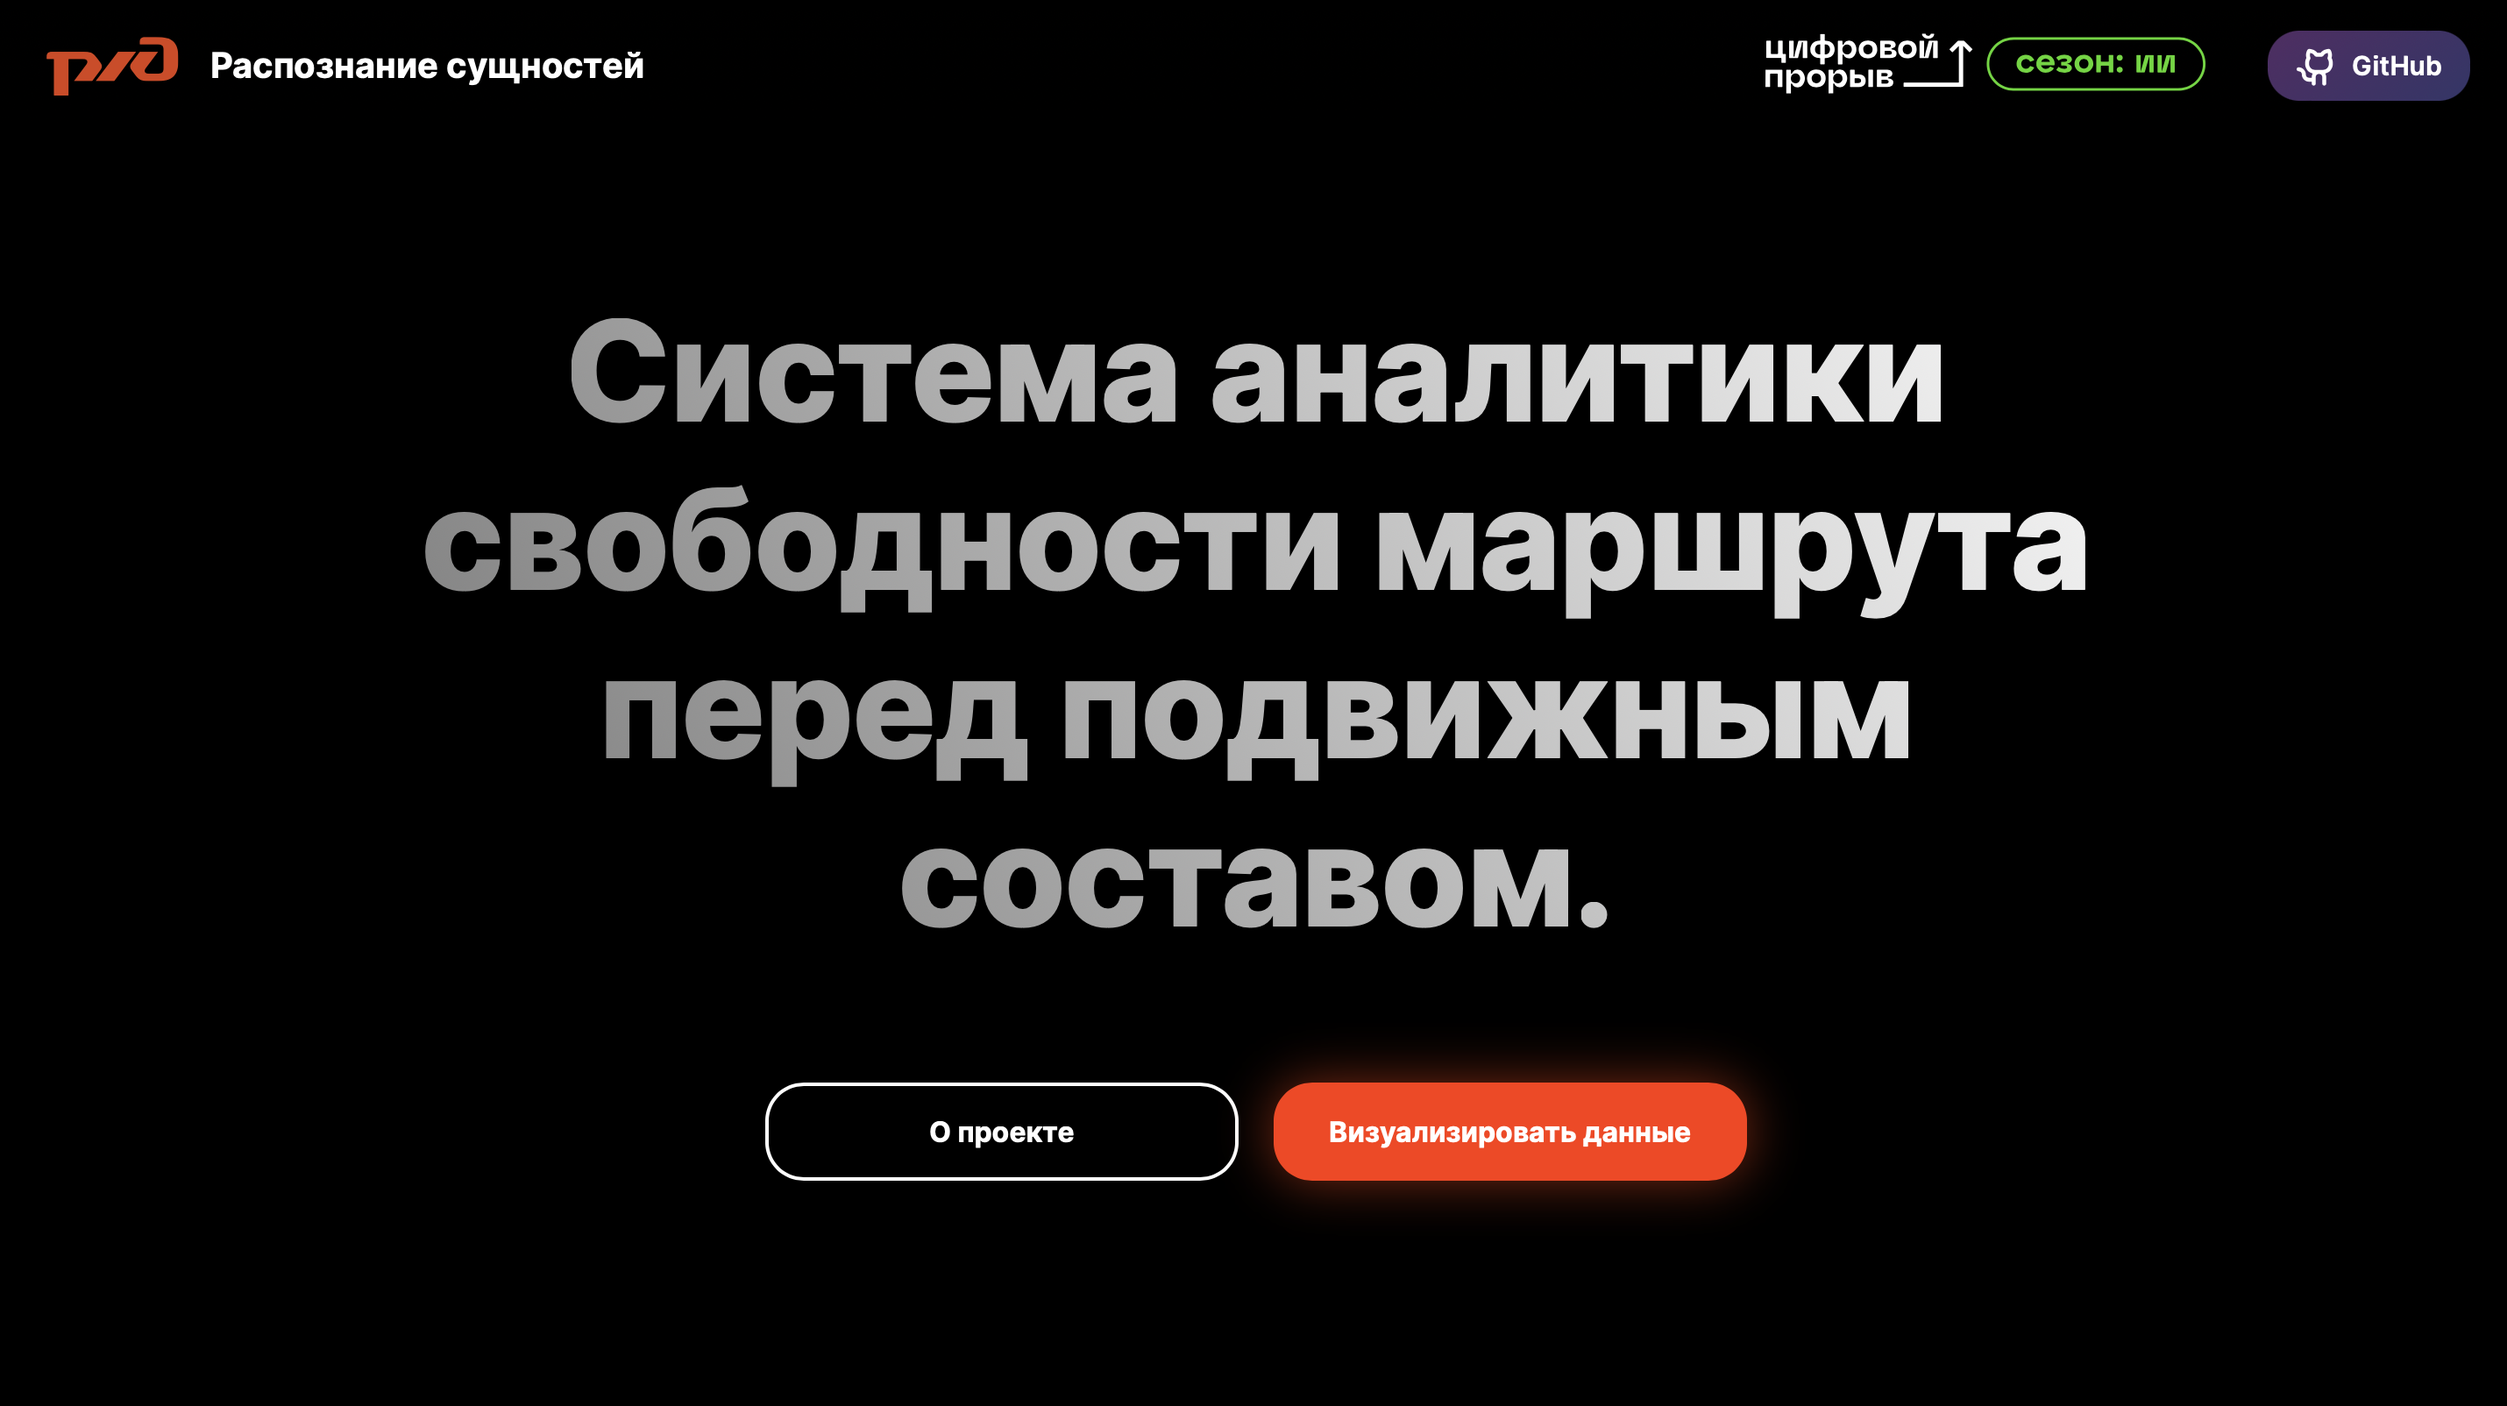
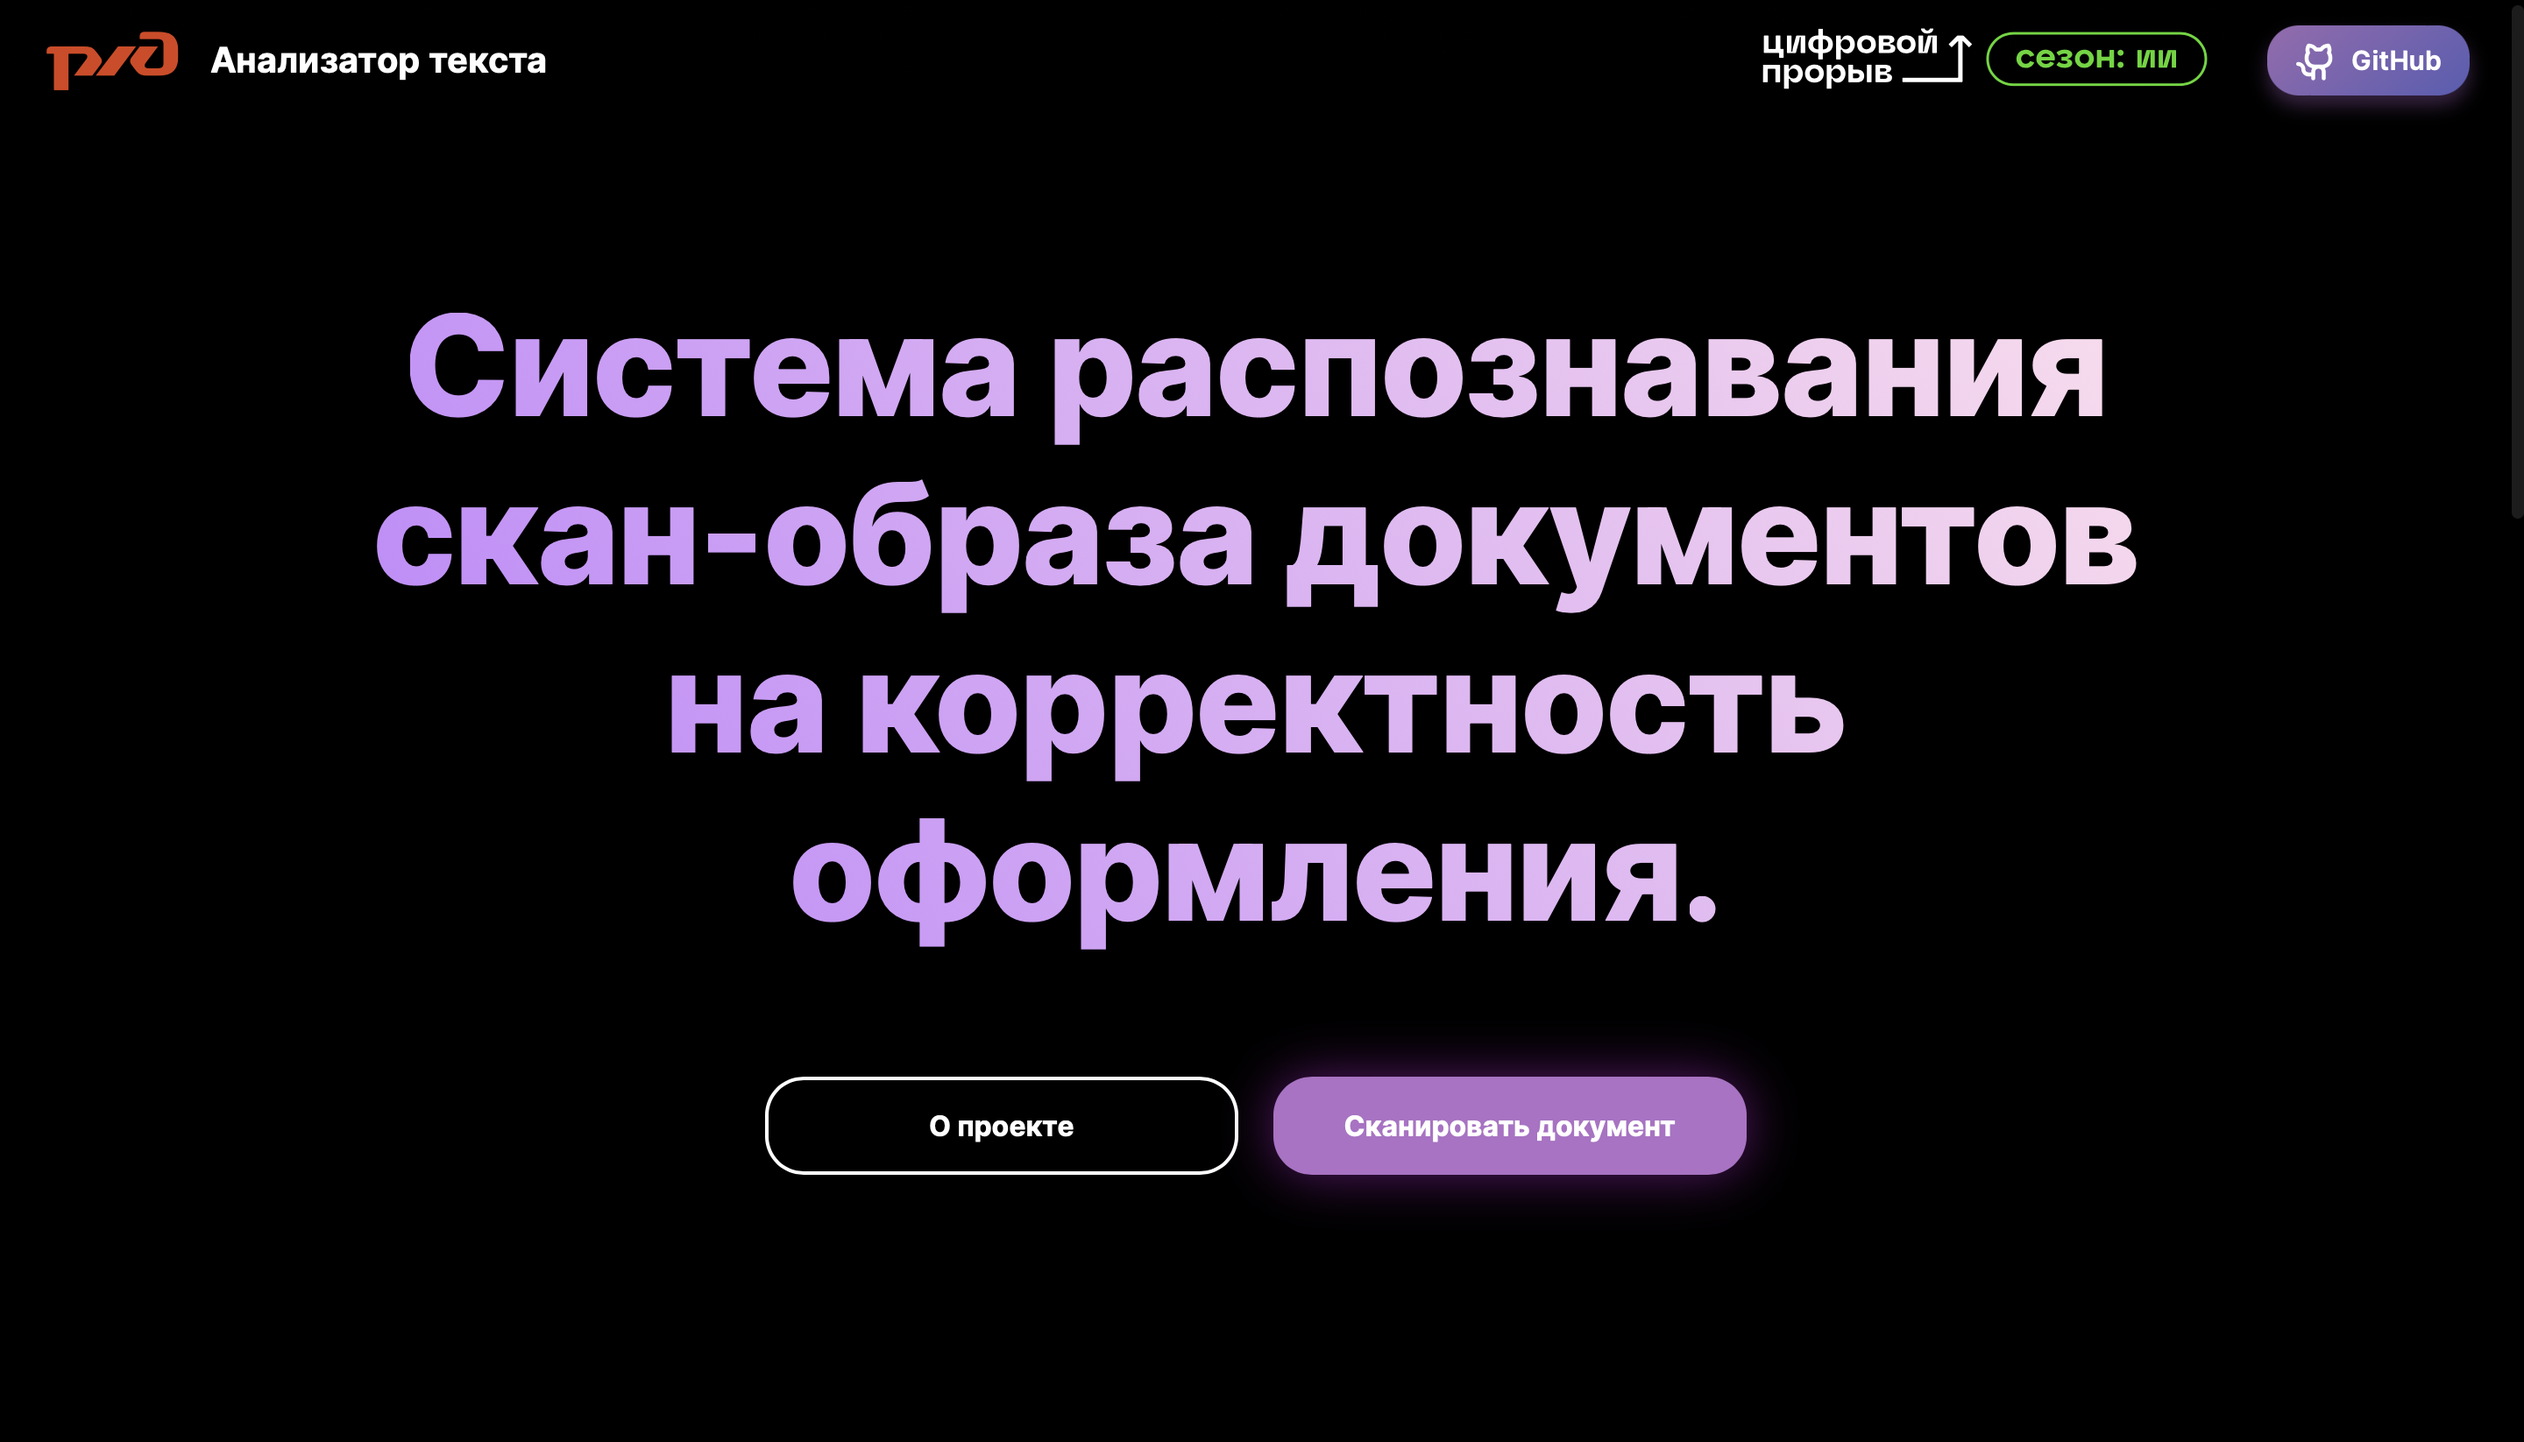
docs: updated README.md

diff --git a/src/App.jsx b/src/App.jsx
@@ -1,10 +1,12 @@
 import { Route, Routes } from 'react-router-dom';
 import UseToTop from './hooks/useToTop';
 import './styles/main.scss';
-import Home from './components/home/Home.jsx';
-import Action from './components/action/Action.jsx';
+
 import Header from './components/header/Header.jsx';
 import Footer from './components/footer/Footer.jsx';
+
+import Home from './components/home/Home.jsx';
+import Action from './components/action/Action.jsx';
 import Presentation from './components/presentation/Presentation.jsx';
 
 function App() {

diff --git a/README.md b/README.md
@@ -1,2 +1,12 @@
 # РЖД Анализатор текста
 ![example branch parameter](https://github.com/mikhailmogilnikov/text-analyzer/actions/workflows/main.yml/badge.svg?branch=master)
+
+![startscreen](./public/assets/images/screen1.png)
+
+## Описание решения
+
+Кейс: Безопасный маршрут РЖД
+
+Веб-сайт содержит в себе информацию о команде и проекте, описание возможностей и ссылку на скачивание приложения для анализа железнодорожного полотна. Также присутствует возможность визуализации полученных в результате работы данных в виде отзывчивого графика.
+
+#### Хакатон "Цифровой прорыв". Хабаровск, 22.09.2023 – 24.09.2023
